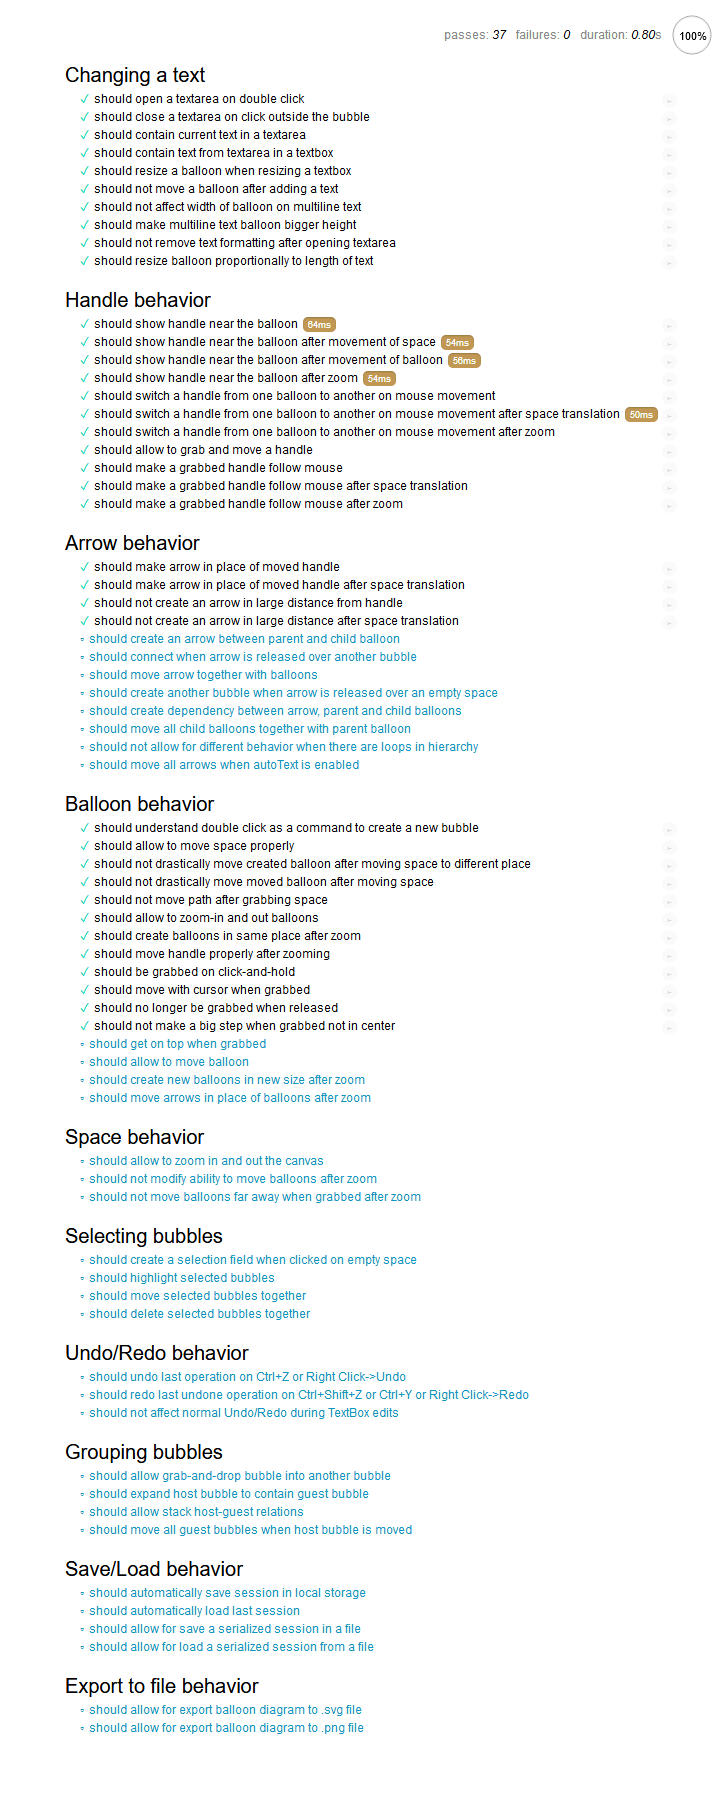
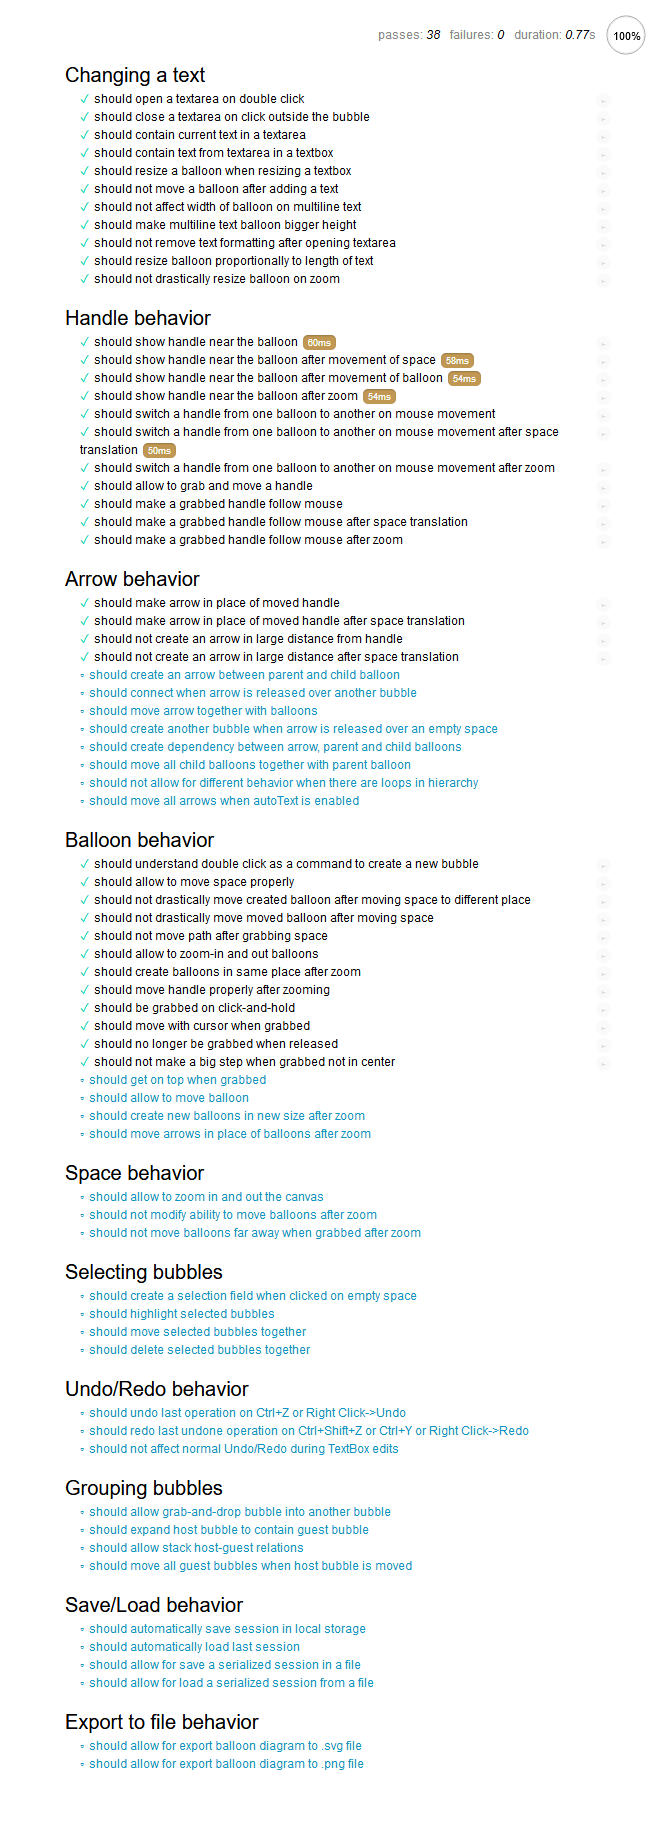
Added resize balloon textbox on zoom test

diff --git a/test/test.js b/test/test.js
@@ -67,7 +67,7 @@ describe('Changing a text',
                 Mouse.doubleclick(x0, y0);
                 $('#tarea').text('abcabcabcabc');
                 b.onInput();
-                Mouse.click(x0, y0 + 300);
+                Mouse.click(x0, y0 + 500);
                 (Space.currentTextareaBalloon === null).should.be.equal(true);
                 var [x1, y1] = b.getXY();
                 Mouse.click(x0, y0);
@@ -102,7 +102,7 @@ describe('Changing a text',
                 $('#tarea').html('abc');
                 b.onInput();
                 var h1 = b.H();
-                $('#tarea').html('abc<br>abc');
+                $('#tarea').html('abc<br>abc<br>abc<br>abc<br>abc<br>abc<br>abc<br>abc');
                 b.onInput();
                 var h2 = b.H();
                 h2.should.be.above(h1);
@@ -140,6 +140,22 @@ describe('Changing a text',
                 b.onInput();
                 var w2 = b.W();
                 w2.should.be.above(w1);
+                Space.clear();
+            });
+
+        it('should not drastically resize balloon on zoom',
+            () => {
+                Space.zoom(500);
+                Balloons.addBalloon(x0, y0);
+                var b = Balloons.getLast();
+                Mouse.doubleclick(x0, y0);
+                $('#tarea').html('abcabcabcabc');
+                b.onInput();
+                var [w1, h1] = b.wh();
+                b.refresh();
+                var [w2, h2] = b.wh();
+                Math.abs(w1 - w2).should.be.below(1);
+                Math.abs(h1 - h2).should.be.below(1);
                 Space.clear();
             });
     });

diff --git a/scripts/balloon.js b/scripts/balloon.js
@@ -187,7 +187,6 @@
         var [x1, y1] = this.getXY();
         var [w, h] = this.getAttrWH();
         [x1, y1] = [x1 + w / 2, y1 + h / 2];
-        //var [x2, y2] = Space.internalToScreen(x1, y1);
         var d = Math.sqrt((x - x1) * (x - x1) + (y - y1) * (y - y1));
         return d;
     }
@@ -205,10 +204,10 @@
         var height = w.y;
         this.W0 = width;
         this.H0 = height;
-        this.div.attr('width', width);
-        this.div.attr('height', height);
-        this.fO.setAttribute('width', width);
-        this.fO.setAttribute('height', height);
+        this.div.attr('width', this.W());
+        this.div.attr('height', this.H());
+        this.fO.setAttribute('width', this.W());
+        this.fO.setAttribute('height', this.H());
         this.moveInternal(this.x, this.y);
         this.drop();
     }
@@ -252,6 +251,10 @@
         n = tab[0].length;
         var x = 50 * n + 200;
         var y = 100 + 100 * tab.length;
+
+        if (x > y) y = x;
+        else x = y;
+
         return { x: x, y: y };
     }
 }
